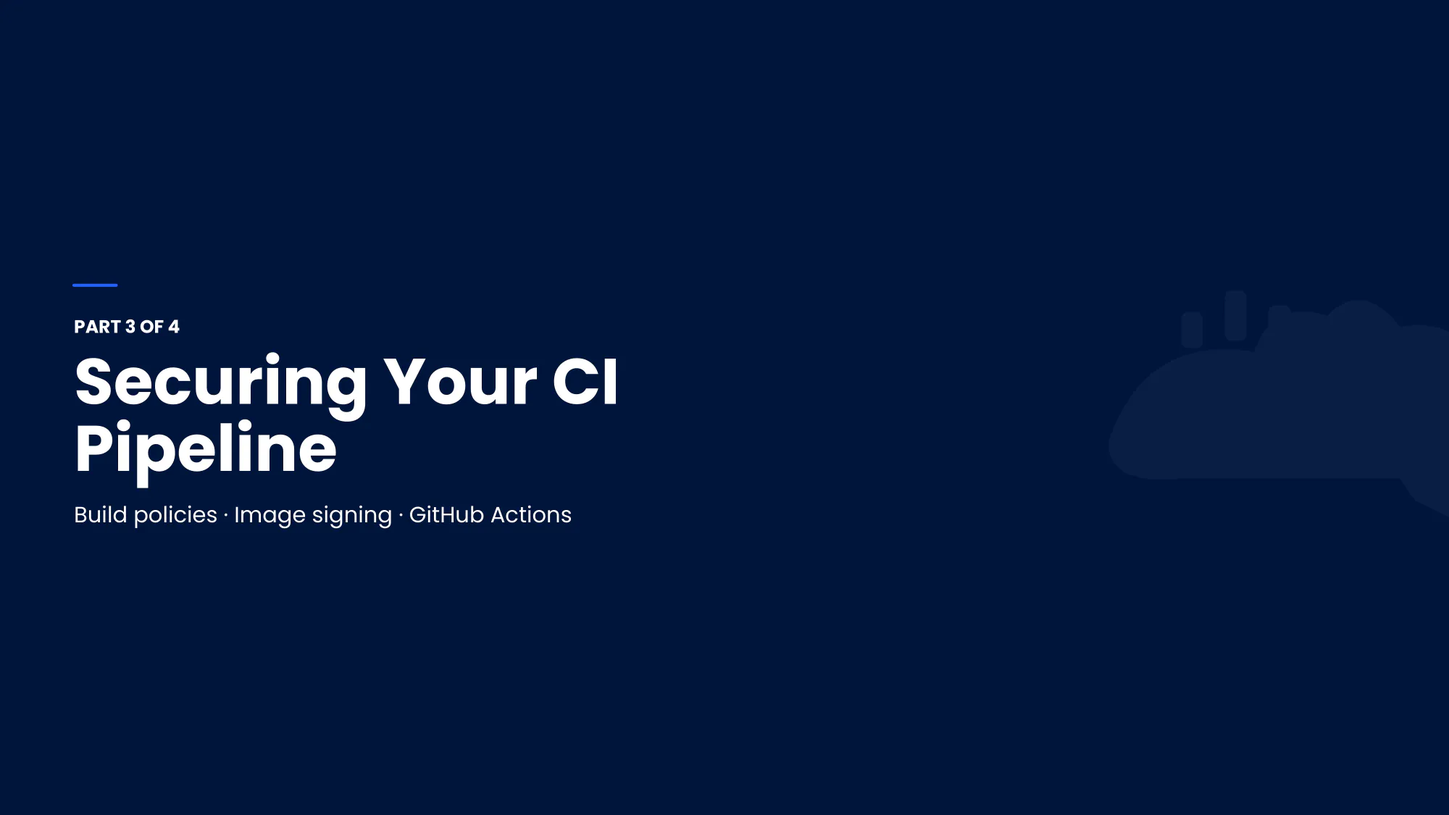
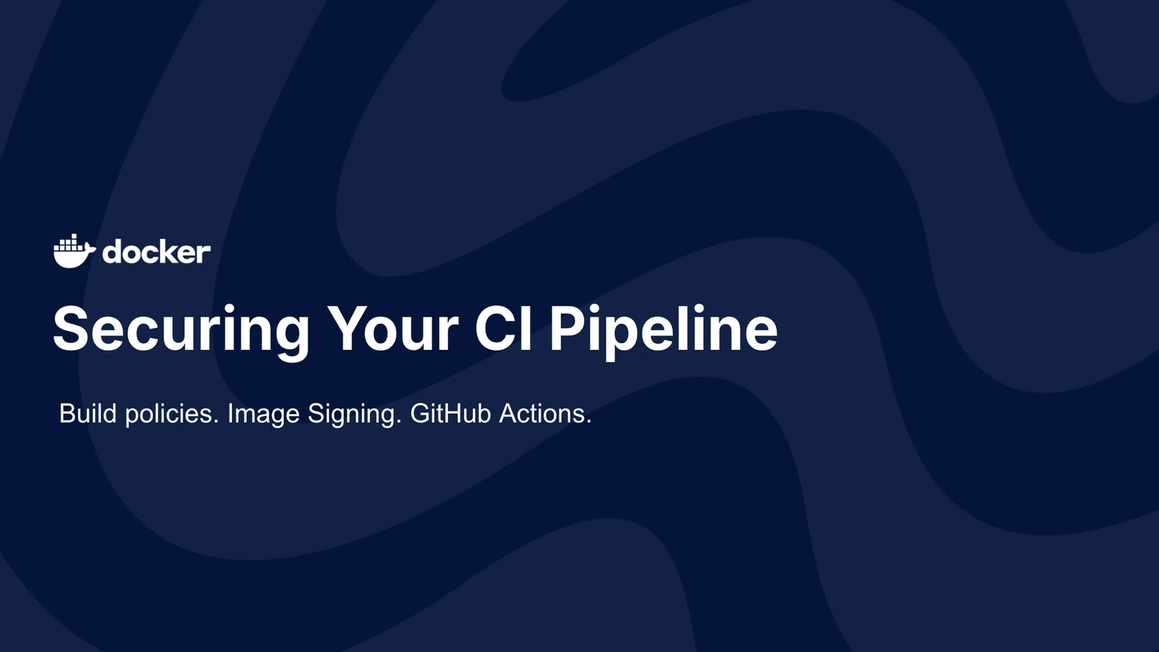
Slides: MCP-governance arc, trim overlapping slides, refresh CI/Lab4 dividers
Add 8 sandbox/MCP-governance slides after the sandbox architecture slide
(Sandbox TUI, credentials, Protecting MCP, gateway, gateway options, Hub
governance, sbx mcp lifecycle, Cedar policy). Remove four now-redundant
slides (old CI live-demo, MCP-hardened-containers, old sbx-isolation, MCP-
on-DHI demo) and rewire the affected hand-off notes. Replace the Part 3 and
Part 4 section intros with cleaner Docker-branded divider slides.

Changed region(s): [[0.0312, 0.4356, 0.6875, 0.5911], [0.0312, 0.6222, 0.5, 0.6533], [0.0312, 0.3422, 0.1875, 0.4044]]

diff --git a/_proposals/SPEAKER-NOTES.md b/_proposals/SPEAKER-NOTES.md
@@ -263,94 +263,114 @@ This is the **complete `secure-build.yaml` workflow, ready to copy**. It trigger
 ## Slide 51 - slide-41
 `slide-41.webp`
 
-Here's why all the earlier hardening pays off at the gate. **With a DHI base** on the left: no critical or high CVEs, SBOM and provenance present, non-root by default, up-to-date base - the **gate passes and the image is pushed**. **With a standard base** on the right: CVEs found, no SBOM, running as root - the **gate fails, and push never runs**. Same pipeline, same policies, opposite outcomes - the only variable is the base image the agent built on. This is the concrete cash-out of Labs 1 and 2: the hardened base isn't just nice-to-have hygiene, it's what lets you cleanly clear a fail-closed gate instead of getting blocked at the boundary. Let's watch that exact contrast happen live.
+Here's why all the earlier hardening pays off at the gate. **With a DHI base** on the left: no critical or high CVEs, SBOM and provenance present, non-root by default, up-to-date base - the **gate passes and the image is pushed**. **With a standard base** on the right: CVEs found, no SBOM, running as root - the **gate fails, and push never runs**. Same pipeline, same policies, opposite outcomes - the only variable is the base image the agent built on. This is the concrete cash-out of Labs 1 and 2: the hardened base isn't just nice-to-have hygiene, it's what lets you cleanly clear a fail-closed gate instead of getting blocked at the boundary. That's Lab 3 done - let's mark it on the journey map.
 
-## Slide 52 - slide-42
-`slide-42.webp`
-
-**Live demo, 3 of 4** - **CI policy enforcement in action**. We're going to watch a build fail, then pass, with a single Dockerfile change. **Round 1** builds `FROM node:22-slim` and runs `docker scout policy catalog-service:baseline`: two critical and 26 high CVEs, no SBOM or provenance, image runs as root - **policy FAILED, 3 of 7 not met, push skipped, image blocked**. **Round 2** changes just the base to `FROM dhi.io/node:24-debian13` and reruns against `catalog-service:dhi`: every one of the seven policies goes green - **policy PASSED, 7 of 7, image pushed to registry**. One line in the Dockerfile is the difference between blocked and promoted. That's the whole story of Lab 3 in two terminal runs - let's mark it done on the journey map.
-
-## Slide 53 - The journey, checkpoint 3 of 4: Lab 3 done, SIGN, GATE and DEPLOY are now gre...
+## Slide 52 - The journey, checkpoint 3 of 4: Lab 3 done, SIGN, GATE and DEPLOY are now gre...
 `slide-journey-3.webp`
 
 **Checkpoint 3 - Lab 3 is done.** Trace the road: the agent develops in a sandbox, builds on a hardened DHI base with zero CVEs, attaches SBOM and provenance at build, and now **SIGNs keylessly, bound to the digest**. The **CI GATE** - no critical CVEs, SBOM present, provenance verified - **fails closed** at the dev-to-prod boundary, and because our image is provable it passes and gets promoted: **DEPLOY** goes green with a signed image, verified and pinned by digest. **Three of four stages provable now** - Labs 1, 2, and 3 are lit. Compare that to the ungoverned baseline the agent shipped on your host: `FROM node:20`, 431 packages, no SBOM, root, nothing you can prove. The one box still grey is **INVOKE** - the running Agent/MCP client at the far right. Same discipline at both ends: the agent that *builds* runs in a box, and the service it *becomes* must run in a box too. That runtime end - MCP servers and tool isolation - is Lab 4, and it's next.
 
-## Slide 54 - Question 4 of 4 - Boundary: what could it reach while it worked? Sandbox runt...
+## Slide 53 - Question 4 of 4 - Boundary: what could it reach while it worked? Sandbox runt...
 `slide-framework-4.webp`
 
 Lab 4 is the last question - **Boundary:** what could the agent reach while it worked? The answer is the **sandbox runtime** - network, filesystem, and credentials, bounded so the agent can act without an open blast radius. This is the fourth layer, and it closes the loop: same discipline at both ends of the road.
 
-## Slide 55 - slide-43
+## Slide 54 - slide-43
 `slide-43.webp`
 
 This is our last segment, **Part 4 of 4: Securing the Agentic Stack**. We've walked the road from development to production, we've made CI fail closed, and now we close the loop on the piece that changes everything about that road - the agent itself. MCP servers, tool isolation, trusted foundations: that's what the next few slides are about. Because once an agent can build and ship for you, the tools it reaches for become part of your supply chain.
 
-## Slide 56 - Agent with a Sandbox: sbx microVM boundary, DHI MCP server, hardened base, ze...
+## Slide 55 - Agent with a Sandbox: sbx microVM boundary, DHI MCP server, hardened base, ze...
 `slide-10.webp`
 
 This is where we're headed - the clean end-state, the counterpart to the ungoverned-agent baseline from earlier. Everything the agent does now happens inside a **sandbox boundary, an `sbx` microVM** with its own daemon, its own network, and the host mounted read-only. Same prompt as before - "containerize app" - but watch the flow: the agent has full permissions inside the box, it queries the **DHI MCP server** which only serves signed tools, and it writes `FROM dhi.io/node` because it checked the trusted source before writing the line. The result at the bottom is the whole point: **0 critical, 0 high, 0 medium, 0 low CVEs**, 211 packages, SBOM attached, signed, non-root. Contrast that with the ungoverned `FROM node:20` baseline we started with - same agent, radically different outcome. Let me show you how that sandbox actually works.
 
-## Slide 57 - Sandboxes (experimental): run agents in isolation rather than on your bare ma...
+## Slide 56 - Sandboxes (experimental): run agents in isolation rather than on your bare ma...
 `slide-sandboxes.webp`
 
 This is the boundary itself - **Docker Sandboxes**, still experimental but exactly the primitive we want. Instead of letting an agent or Claude run loose on your bare machine, it runs in an **isolated sandbox that mirrors your workspace**. You define what access it gets - filesystem, network, internal resources, and tools - and your real files, data, and secrets **stay safe even if the agent goes off the rails**. On the right you can see it: `sbx run claude` starts the agent in a sandbox, mounts just the workspace, and applies a **deny-all network policy with an explicit allowlist**. Let me show you what's actually inside that box.
 
-## Slide 58 - Sandbox architecture: on the host machine, the agent container runs inside a ...
+## Slide 57 - Sandbox architecture: on the host machine, the agent container runs inside a ...
 `slide-sandbox-arch.webp`
 
-Here's the architecture. Everything sits on your **host machine**, but the agent runs inside a **microVM-based sandbox** - a real isolation boundary, not just a container namespace. You feed it three things from outside the box: the **workspace directories** it's allowed to see, the **network policies** that govern what it can reach, and the **secrets** it needs. Outbound traffic doesn't go straight out - it flows through a **network proxy** that enforces those policies before anything reaches **external systems**. The agent gets exactly the access you granted and nothing more. That's the runtime boundary for Lab 4 - now let's look at the MCP servers that run inside it.
+Here's the architecture. Everything sits on your **host machine**, but the agent runs inside a **microVM-based sandbox** - a real isolation boundary, not just a container namespace. You feed it three things from outside the box: the **workspace directories** it's allowed to see, the **network policies** that govern what it can reach, and the **secrets** it needs. Outbound traffic doesn't go straight out - it flows through a **network proxy** that enforces those policies before anything reaches **external systems**. The agent gets exactly the access you granted and nothing more. That's the runtime boundary for Lab 4 - here's what it looks like in day-to-day use.
 
-## Slide 59 - slide-46
-`slide-46.webp`
+## Slide 58 - The Sandbox TUI: Docker Sandboxes live view - sandboxes on the left (claude-d...
+`slide-sandbox-tui.webp`
 
-The reassuring part: **MCP servers belong in hardened containers**, and hardening one is exactly the same discipline as hardening any app. On the left you build on DHI - `FROM dhi.io/python:3.13`, copy in your code, and note the comment: no shell, no curl, no package manager in the final image. The compose service locks it down at runtime with `read_only: true`, `cap_drop: [ALL]`, and `no-new-privileges`. On the right you verify and run through the gateway - `docker mcp gateway run --verify-signatures` checks the signature before anything executes, `docker scout` confirms the attestations, and a `docker inspect` proves the read-only rootfs actually stuck. And the callout matters: **don't hand-harden every server**. For off-the-shelf tools - filesystem, git, GitHub - pull from Docker's pre-hardened MCP Catalog, already signed and attested, zero Dockerfile work. Now let's put the two paths side by side and see the numbers.
+This is the Sandbox TUI - `sbx` gives you a live view of every sandbox on your machine. On the left, each sandbox with its status, workspace, and resource use - `claude-docs` running, `claude-agent-demo` stopped - with controls to stop, exec, or remove. On the right, the **network log** for the selected sandbox: every outbound connection the agent attempted, with a hit count and an allowed-or-blocked status. Notice `api.anthropic.com`, `api.github.com`, and `registry.npmjs.org` allowed, while `http-intake.logs.us5.datadoghq.com` is **blocked**. This is the boundary made observable - you can see exactly what the agent reached for and what the policy stopped.
 
-## Slide 60 - slide-47
+## Slide 59 - Managing credentials: always prefer stored secrets over env vars (keychain en...
+`slide-credentials.webp`
+
+Credentials are the thing you least want an agent to leak, so two rules. **Always prefer stored secrets over environment variables** - the OS keychain encrypts them at rest. And **never set API keys manually inside the sandbox** - anything in there is readable by the agent. The CLI is small: `sbx secret set -g anthropic` stores a key for all sandboxes; scope it to one with `sbx secret set my-sandbox openai`. You can pipe a GitHub token straight in - `gh auth token | sbx secret set -g github` - so the agent can use the `gh` CLI without ever seeing the raw value. `sbx secret ls` and `rm` manage them, and the major providers are supported out of the box.
+
+## Slide 60 - Protecting MCP: tools are how agents act on the world - govern which servers ...
+`slide-protecting-mcp.webp`
+
+That's the sandbox itself - the boundary the agent runs in. Now the other half of Lab 4: **protecting MCP**. Tools are how an agent acts on the world, so the question shifts from "what can it reach" to "which servers exist, and which tools is it actually allowed to call?" The answer is to govern all of that at **one gateway**.
+
+## Slide 61 - The agent talks to one gateway, never to servers directly: the sandboxed agen...
+`slide-mcp-gateway.webp`
+
+Here's the shape of it. The agent inside the sandbox never talks to MCP servers directly - it talks to **one endpoint**, the **mcp-gateway**, through a single `SBX_MCP_URL`. Behind that gateway all your servers - local-wiki, GitHub, Notion, DuckDuckGo - are aggregated. The payoff is the line at the bottom: **every tool call flows through one chokepoint**. Tools are namespaced `mcp__mcp-gateway__<tool>`, and that single point is where policy and audit apply - one place to govern instead of N servers to chase.
+
+## Slide 62 - Point it at a real gateway: local gateway http://localhost:8811 (Compose or D...
+`slide-gateway-options.webp`
+
+The `sbx mcp` subtree stays hidden until you set `SBX_MCP_URL`, and only two values carry the full governed flow. A **local gateway** at `http://localhost:8811` - Compose or the Desktop MCP Toolkit, you run it and control what's registered, best for learning the mechanics. Or a **hosted control plane** at `gateway.docker.com` - MCP Gateway Enterprise, where org policy governs what's invocable with central audit, the real governance story. And the crucial default: it is **fail-closed by design** - no policy loaded means deny-all. Policy is authored in Docker Hub, fetched at `docker login`, and developers can't override it.
+
+## Slide 63 - Author once in Docker Hub, enforce around the sandbox and at the gateway: Doc...
+`slide-hub-governance.webp`
+
+This is the whole enforcement picture. You **author policy once in Docker Hub** - the AI Governance settings UI or the Governance API. It syncs to the host at `docker login`, takes precedence, and fails closed. On the developer laptop the agent runs in the microVM, and the **sbx daemon** enforces the network proxy, network policy, and filesystem policy - writing **every decision to an audit log** as JSONL. Tool calls leave via `SBX_MCP_URL` to the **MCP Gateway** - local 8811 or gateway.docker.com - which runs its own **policy check and audit on every call**. Same policy, enforced in two places: around the sandbox and at the gateway.
+
+## Slide 64 - The server lifecycle - five commands: sbx mcp add to register, sbx mcp ls/ins...
+`slide-mcp-lifecycle.webp`
+
+Hands-on, the `sbx mcp` lifecycle is basically five commands. **add** registers a server - `sbx mcp add local-wiki --command docker --args "run,-i,--rm,mcp/wikipedia-mcp"` - and it takes a list, stdio, remote-OAuth, or a docker.io image. **ls / inspect** shows the record, registration only - it doesn't start anything. **--static-mcp** attaches it to a sandbox at launch - `sbx run claude --static-mcp local-wiki` - or `sbx mcp load` into a live one; note the flag is `--static-mcp`, not `--mcp`. And inside the agent, **/mcp** verifies it's wired up - you'll see `mcp-gateway connected, 24 tools`, one aggregated gateway, not your individual servers.
+
+## Slide 65 - Default-deny allow-list over (server, tool), authored in Cedar: a permit poli...
+`slide-cedar-policy.webp`
+
+And here's what the policy actually looks like - a **default-deny allow-list over (server, tool) pairs, authored in Cedar**, the open-source authorization engine from AWS. Cedar answers "can principal X do action Y on resource Z in context C." This policy permits **exactly one tool - `get_me` on `github-official`** - and by default-deny, every other tool and every other server is **blocked**. It's evaluated **at the gateway on every invoke**, using the **same engine as your network and filesystem policy** - one surface, no bypass. The takeaway: author once, sync everywhere. A developer can `sbx mcp add` any server they like, but if org policy doesn't permit its tools, the calls are denied and audited.
+
+## Slide 66 - slide-47
 `slide-47.webp`
 
 This is the whole talk in one frame - **two paths, same agent, same prompt**, "containerize catalog service." The **traditional agentic SDLC** on the left pulls packages from random internet repos - npm, DockerHub community, apt, pip - writes `FROM node:20` with no security guidance, and lands at **2 critical, 26 high, 25 medium, 122 low CVEs**, 806 packages, no SBOM, no attestation, running as root. The **agentic SDLC with sbx plus DHI MCP** on the right runs the agent inside an isolated microVM, queries the DHI MCP server first with `dhi_list_repositories` and `dhi_get_image_cves`, and writes `FROM dhi.io/node:24-debian13` - the DHI-recommended base, 0 CVEs, signed, SLSA L3. Result: **all zeros**, 211 packages, SBOM attached, signed, non-root. Same intelligence, same instruction - the only variable is whether the agent is sandboxed and pointed at a trusted source. Let me show you that MCP server up close.
 
-## Slide 61 - slide-48
+## Slide 67 - slide-48
 `slide-48.webp`
 
-Here's the beautiful turn in the story: **the same agent that introduced the vulnerabilities can now query what's secure before it picks a base image**. Connecting it is one config - drop a `dhi` entry pointing at `https://dhi.io/mcp` into Claude Desktop, or a single `claude mcp add dhi --url https://dhi.io/mcp` in Claude Code. That gives the agent **10 tools**: `dhi_list_repositories` to search by name, FIPS, or STIG; `dhi_get_image_cves` with CVSS, EPSS, and fix versions; `dhi_get_image_packages` for the full SBOM; attestations, repository details, even `dhi_create_mirror`. So the agent can answer real questions - "find the Node.js hardened image with the fewest CVEs," "does this image have FIPS and STIG attestations." The line to land: the agent that triggered the vulnerabilities now has the tools to **never make that mistake again**, by querying DHI before every FROM line. Next, the boundary that keeps the agent itself contained - Docker Sandboxes.
+Here's the beautiful turn in the story: **the same agent that introduced the vulnerabilities can now query what's secure before it picks a base image**. Connecting it is one config - drop a `dhi` entry pointing at `https://dhi.io/mcp` into Claude Desktop, or a single `claude mcp add dhi --url https://dhi.io/mcp` in Claude Code. That gives the agent **10 tools**: `dhi_list_repositories` to search by name, FIPS, or STIG; `dhi_get_image_cves` with CVSS, EPSS, and fix versions; `dhi_get_image_packages` for the full SBOM; attestations, repository details, even `dhi_create_mirror`. So the agent can answer real questions - "find the Node.js hardened image with the fewest CVEs," "does this image have FIPS and STIG attestations." The line to land: the agent that triggered the vulnerabilities now has the tools to **never make that mistake again**, by querying DHI before every FROM line. Now let's wire that DHI MCP server into the sandbox.
 
-## Slide 62 - slide-49
-`slide-49.webp`
-
-This is the agent's own blast-radius boundary - **Docker Sandboxes**. Remember the lab started with `claude -p` building the catalog service; run that same agent in a sandbox and it simply cannot touch your host. Install is two lines - `brew install docker/tap/sbx` and `sbx login` - then `sbx run --name my-sandbox claude` drops the agent into an isolated microVM. Add `--clone` and the host goes read-only: the agent works on its own branch and you `git fetch` and review its commits before anything merges. On the right is what's actually isolated: its **own Docker daemon** so it builds containers without host daemon access, its **own filesystem and network** behind a microVM boundary it can't escape, **network policies** - Open, Balanced, or Locked Down, blocking outbound by default - and clone mode keeping the host read-only. This is the "full permissions inside, zero reach outside" box from our end-state diagram. Next, wiring the DHI MCP server into that sandbox.
-
-## Slide 63 - slide-50
+## Slide 68 - slide-50
 `slide-50.webp`
 
 Now we connect the two halves - **wire the DHI MCP server into the sandbox**. On the left, one-time setup: install `sbx`, export the gateway URL, start the sandbox daemon, then register the server by URL with `sbx mcp add remotedhi --url https://dhi.io/mcp`. Inspect it and you see it's a remote server over streamable-http - nothing hand-built. On the right you query it from the agent: `sbx run codex --static-mcp remotedhi`, and the agent's `/mcp` view now lists the tools through the gateway - `dhi_get_image_cves`, `dhi_get_image_details`, and eight more. The callout is the important nuance: **10 tools are now available**, but most are read-only queries. The mutating ones - `dhi_create_mirror`, `dhi_remove_mirror` - are exactly what you want to scope with policy. And that's the next slide.
 
-## Slide 64 - slide-51
+## Slide 69 - slide-51
 `slide-51.webp`
 
 Last technical slide, and it's the one that separates a demo from production - **govern the tools first, with a Cedar access policy**. On the left is the lab default: a quick unblock that permits every principal, every action - register, invokeTool, invokePrimordial - against every resource. It gets the lab moving, but as the note says, that's governance turned off; don't ship it as your exemplar, and never hand the gateway's built-in primordials a wide-open pass. On the right is the production-scoped version: anyone may register, but `invokeTool` is permitted only when the server is `remotedhi` **and** the tool is one of the named read-only queries - `dhi_get_image_cves`, `dhi_get_image_packages`, `dhi_list_repositories`, and so on. Scoped by design: `dhi_create_mirror`, `dhi_remove_mirror`, and wide-open primordials are deliberately left out - query the catalog, don't mutate it. One gotcha worth flagging - the real action name is `invokeTool`, not `invoke`. That completes the road: development to production, CI failing closed, and the agent sandboxed and governed on both ends. Let's wrap up.
 
-## Slide 65 - slide-53
-`slide-53.webp`
-
-This is **live demo 4 of 4**, and it ties the whole road together in one flow: **MCP server on DHI, end to end** - from a Dockerfile all the way to a verified tool invocation. Watch the four moves along the bottom, because they mirror everything we have built. We **BUILD** with `docker buildx build --sbom=true`, so the SBOM is attached at build time, not bolted on later. We **SIGN** with `cosign sign`, binding that image to its digest. We **RUN** it with `docker compose up` under `read_only` and `cap_drop: ALL`, so the service that this agent becomes runs with least privilege. And we **VERIFY** with `docker scout attest list`, proving the attestations are really there. Same source, same agent, provable at every step - that is the payoff of Lab 4.
-
-## Slide 66 - The journey, checkpoint 4 of 4: Lab 4 done, DEVELOP and INVOKE green, both sa...
+## Slide 70 - The journey, checkpoint 4 of 4: Lab 4 done, DEVELOP and INVOKE green, both sa...
 `slide-journey-4.webp`
 
 This is the final checkpoint, **4 of 4** - the whole road is green. On the left, **DEVELOPMENT** sits inside its own dashed box: the agent develops in an sbx microVM with the host read-only, on a hardened base with 0 CVEs and SLSA L3, buildx attaches SBOM and provenance, and signing binds everything to a verifiable digest. In the middle the **CI GATE** does its job - no critical CVEs, SBOM present, provenance verified - and it **FAILS CLOSED** at the dev-to-prod boundary. On the right, **PRODUCTION** is boxed too: the signed image is deployed pinned by digest, and the agent invokes MCP as a signed, read-only client under `cap_drop ALL` and non-root. The one line to land is at the bottom - **same discipline at both ends**: the agent that BUILDS runs in a box, and the service it BECOMES runs in a box. Least privilege on the left and the right of the road, and 4 of 4 stages provable.
 
-## Slide 67 - slide-54
+## Slide 71 - slide-54
 `slide-54.webp`
 
 If you take one slide home, take this one: **your security framework in five steps**. First, **know what is in your images** - SBOM plus VEX, so you can see every package and cut the noise on the ones that do not apply. Second, **verify where they came from** - SLSA provenance and image signing, so trust is bound to a digest, not a hope. Third, **start from a trusted base** - Docker Hardened Images, so you begin near zero CVEs instead of digging out of a pile. Fourth, **enforce at the pipeline** - Docker Scout build policies that fail closed at the dev-to-prod boundary. And fifth, **isolate your agents** - run MCP servers in hardened containers so the agent's tools stay in a box. Each of those was one of our labs; together they are a repeatable playbook you can apply to any agentic stack.
 
-## Slide 68 - slide-55
+## Slide 72 - slide-55
 `slide-55.webp`
 
 Here are the **resources and next steps** so you can keep going after today. Everything from this workshop lives in the **lab repo** at `github.com/ajeetraina/simspace-agentic-security` - clone it and run the four labs again at your own pace. Under **Docker docs** you have Hardened Images in Trusted Content, Docker Scout, and the MCP Catalog on Docker Hub. And on the **standards** side, these are the specs behind what we did - SLSA at slsa.dev, VEX at openvex.dev, Cosign and Sigstore for signing, and the MCP specification at modelcontextprotocol.io. Snap a photo of this slide, and then **come find us at the Docker booth** - we would love to hear what you build.
 
-## Slide 69 - slide-56
+## Slide 73 - slide-56
 `slide-56.webp`
 
 That is the journey - **provable trust, end to end**. Agents now build and ship our containers, and with hardened images, attestation, and sandboxing on both ends of the road, we can prove what they produced instead of just trusting it. Go run the lab, apply the five steps to your own stack, and come say hi at the booth. **Thank you.**

diff --git a/lab/securing-the-agentic-stack-slides/deck.md b/lab/securing-the-agentic-stack-slides/deck.md
@@ -410,15 +410,7 @@ Note: This is the **complete `secure-build.yaml` workflow, ready to copy**. It t
 
 <img src="assets/slide-41.webp" alt="Slide 41" width="1600" height="900" loading="lazy" decoding="async" style="position:absolute;inset:0;width:100%;height:100%;max-width:none;max-height:none;object-fit:fill" />
 
-Note: Here's why all the earlier hardening pays off at the gate. **With a DHI base** on the left: no critical or high CVEs, SBOM and provenance present, non-root by default, up-to-date base - the **gate passes and the image is pushed**. **With a standard base** on the right: CVEs found, no SBOM, running as root - the **gate fails, and push never runs**. Same pipeline, same policies, opposite outcomes - the only variable is the base image the agent built on. This is the concrete cash-out of Labs 1 and 2: the hardened base isn't just nice-to-have hygiene, it's what lets you cleanly clear a fail-closed gate instead of getting blocked at the boundary. Let's watch that exact contrast happen live.
-
----
-
-<!-- chrome: false -->
-
-<img src="assets/slide-42.webp" alt="Slide 42" width="1600" height="900" loading="lazy" decoding="async" style="position:absolute;inset:0;width:100%;height:100%;max-width:none;max-height:none;object-fit:fill" />
-
-Note: **Live demo, 3 of 4** - **CI policy enforcement in action**. We're going to watch a build fail, then pass, with a single Dockerfile change. **Round 1** builds `FROM node:22-slim` and runs `docker scout policy catalog-service:baseline`: two critical and 26 high CVEs, no SBOM or provenance, image runs as root - **policy FAILED, 3 of 7 not met, push skipped, image blocked**. **Round 2** changes just the base to `FROM dhi.io/node:24-debian13` and reruns against `catalog-service:dhi`: every one of the seven policies goes green - **policy PASSED, 7 of 7, image pushed to registry**. One line in the Dockerfile is the difference between blocked and promoted. That's the whole story of Lab 3 in two terminal runs - let's mark it done on the journey map.
+Note: Here's why all the earlier hardening pays off at the gate. **With a DHI base** on the left: no critical or high CVEs, SBOM and provenance present, non-root by default, up-to-date base - the **gate passes and the image is pushed**. **With a standard base** on the right: CVEs found, no SBOM, running as root - the **gate fails, and push never runs**. Same pipeline, same policies, opposite outcomes - the only variable is the base image the agent built on. This is the concrete cash-out of Labs 1 and 2: the hardened base isn't just nice-to-have hygiene, it's what lets you cleanly clear a fail-closed gate instead of getting blocked at the boundary. That's Lab 3 done - let's mark it on the journey map.
 
 ---
 
@@ -466,15 +458,71 @@ Note: This is the boundary itself - **Docker Sandboxes**, still experimental but
 
 <img src="assets/slide-sandbox-arch.webp" alt="Sandbox architecture: on the host machine, the agent container runs inside a microVM-based sandbox fed by workspace directories, network policies and secrets; outbound traffic flows through a network proxy to external systems" width="1600" height="900" loading="lazy" decoding="async" style="position:absolute;inset:0;width:100%;height:100%;max-width:none;max-height:none;object-fit:fill" />
 
-Note: Here's the architecture. Everything sits on your **host machine**, but the agent runs inside a **microVM-based sandbox** - a real isolation boundary, not just a container namespace. You feed it three things from outside the box: the **workspace directories** it's allowed to see, the **network policies** that govern what it can reach, and the **secrets** it needs. Outbound traffic doesn't go straight out - it flows through a **network proxy** that enforces those policies before anything reaches **external systems**. The agent gets exactly the access you granted and nothing more. That's the runtime boundary for Lab 4 - now let's look at the MCP servers that run inside it.
+Note: Here's the architecture. Everything sits on your **host machine**, but the agent runs inside a **microVM-based sandbox** - a real isolation boundary, not just a container namespace. You feed it three things from outside the box: the **workspace directories** it's allowed to see, the **network policies** that govern what it can reach, and the **secrets** it needs. Outbound traffic doesn't go straight out - it flows through a **network proxy** that enforces those policies before anything reaches **external systems**. The agent gets exactly the access you granted and nothing more. That's the runtime boundary for Lab 4 - here's what it looks like in day-to-day use.
 
 ---
 
 <!-- chrome: false -->
 
-<img src="assets/slide-46.webp" alt="Slide 46" width="1600" height="900" loading="lazy" decoding="async" style="position:absolute;inset:0;width:100%;height:100%;max-width:none;max-height:none;object-fit:fill" />
+<img src="assets/slide-sandbox-tui.webp" alt="The Sandbox TUI: Docker Sandboxes live view - sandboxes on the left (claude-docs running, claude-agent-demo stopped) and the per-sandbox network log on the right with allowed and blocked hosts" width="1600" height="900" loading="lazy" decoding="async" style="position:absolute;inset:0;width:100%;height:100%;max-width:none;max-height:none;object-fit:fill" />
 
-Note: The reassuring part: **MCP servers belong in hardened containers**, and hardening one is exactly the same discipline as hardening any app. On the left you build on DHI - `FROM dhi.io/python:3.13`, copy in your code, and note the comment: no shell, no curl, no package manager in the final image. The compose service locks it down at runtime with `read_only: true`, `cap_drop: [ALL]`, and `no-new-privileges`. On the right you verify and run through the gateway - `docker mcp gateway run --verify-signatures` checks the signature before anything executes, `docker scout` confirms the attestations, and a `docker inspect` proves the read-only rootfs actually stuck. And the callout matters: **don't hand-harden every server**. For off-the-shelf tools - filesystem, git, GitHub - pull from Docker's pre-hardened MCP Catalog, already signed and attested, zero Dockerfile work. Now let's put the two paths side by side and see the numbers.
+Note: This is the Sandbox TUI - `sbx` gives you a live view of every sandbox on your machine. On the left, each sandbox with its status, workspace, and resource use - `claude-docs` running, `claude-agent-demo` stopped - with controls to stop, exec, or remove. On the right, the **network log** for the selected sandbox: every outbound connection the agent attempted, with a hit count and an allowed-or-blocked status. Notice `api.anthropic.com`, `api.github.com`, and `registry.npmjs.org` allowed, while `http-intake.logs.us5.datadoghq.com` is **blocked**. This is the boundary made observable - you can see exactly what the agent reached for and what the policy stopped.
+
+---
+
+<!-- chrome: false -->
+
+<img src="assets/slide-credentials.webp" alt="Managing credentials: always prefer stored secrets over env vars (keychain encrypts at rest), never set API keys inside the sandbox; sbx secret set/ls/rm; supported services anthropic, openai, github, google and more" width="1600" height="900" loading="lazy" decoding="async" style="position:absolute;inset:0;width:100%;height:100%;max-width:none;max-height:none;object-fit:fill" />
+
+Note: Credentials are the thing you least want an agent to leak, so two rules. **Always prefer stored secrets over environment variables** - the OS keychain encrypts them at rest. And **never set API keys manually inside the sandbox** - anything in there is readable by the agent. The CLI is small: `sbx secret set -g anthropic` stores a key for all sandboxes; scope it to one with `sbx secret set my-sandbox openai`. You can pipe a GitHub token straight in - `gh auth token | sbx secret set -g github` - so the agent can use the `gh` CLI without ever seeing the raw value. `sbx secret ls` and `rm` manage them, and the major providers are supported out of the box.
+
+---
+
+<!-- chrome: false -->
+
+<img src="assets/slide-protecting-mcp.webp" alt="Protecting MCP: tools are how agents act on the world - govern which servers exist and which tools an agent may actually call, at one gateway" width="1600" height="900" loading="lazy" decoding="async" style="position:absolute;inset:0;width:100%;height:100%;max-width:none;max-height:none;object-fit:fill" />
+
+Note: That's the sandbox itself - the boundary the agent runs in. Now the other half of Lab 4: **protecting MCP**. Tools are how an agent acts on the world, so the question shifts from "what can it reach" to "which servers exist, and which tools is it actually allowed to call?" The answer is to govern all of that at **one gateway**.
+
+---
+
+<!-- chrome: false -->
+
+<img src="assets/slide-mcp-gateway.webp" alt="The agent talks to one gateway, never to servers directly: the sandboxed agent reaches an mcp-gateway via SBX_MCP_URL, and local-wiki, GitHub/Notion and DuckDuckGo are aggregated behind it; every tool call flows through one chokepoint" width="1600" height="900" loading="lazy" decoding="async" style="position:absolute;inset:0;width:100%;height:100%;max-width:none;max-height:none;object-fit:fill" />
+
+Note: Here's the shape of it. The agent inside the sandbox never talks to MCP servers directly - it talks to **one endpoint**, the **mcp-gateway**, through a single `SBX_MCP_URL`. Behind that gateway all your servers - local-wiki, GitHub, Notion, DuckDuckGo - are aggregated. The payoff is the line at the bottom: **every tool call flows through one chokepoint**. Tools are namespaced `mcp__mcp-gateway__<tool>`, and that single point is where policy and audit apply - one place to govern instead of N servers to chase.
+
+---
+
+<!-- chrome: false -->
+
+<img src="assets/slide-gateway-options.webp" alt="Point it at a real gateway: local gateway http://localhost:8811 (Compose or Desktop MCP Toolkit) or hosted control plane https://gateway.docker.com (MCP Gateway Enterprise); fail-closed by design - no policy means deny-all" width="1600" height="900" loading="lazy" decoding="async" style="position:absolute;inset:0;width:100%;height:100%;max-width:none;max-height:none;object-fit:fill" />
+
+Note: The `sbx mcp` subtree stays hidden until you set `SBX_MCP_URL`, and only two values carry the full governed flow. A **local gateway** at `http://localhost:8811` - Compose or the Desktop MCP Toolkit, you run it and control what's registered, best for learning the mechanics. Or a **hosted control plane** at `gateway.docker.com` - MCP Gateway Enterprise, where org policy governs what's invocable with central audit, the real governance story. And the crucial default: it is **fail-closed by design** - no policy loaded means deny-all. Policy is authored in Docker Hub, fetched at `docker login`, and developers can't override it.
+
+---
+
+<!-- chrome: false -->
+
+<img src="assets/slide-hub-governance.webp" alt="Author once in Docker Hub, enforce around the sandbox and at the gateway: Docker Hub AI Governance syncs at docker login to the sbx daemon (network proxy + policy, filesystem policy, audit log) and the MCP Gateway checks policy on every call" width="1600" height="900" loading="lazy" decoding="async" style="position:absolute;inset:0;width:100%;height:100%;max-width:none;max-height:none;object-fit:fill" />
+
+Note: This is the whole enforcement picture. You **author policy once in Docker Hub** - the AI Governance settings UI or the Governance API. It syncs to the host at `docker login`, takes precedence, and fails closed. On the developer laptop the agent runs in the microVM, and the **sbx daemon** enforces the network proxy, network policy, and filesystem policy - writing **every decision to an audit log** as JSONL. Tool calls leave via `SBX_MCP_URL` to the **MCP Gateway** - local 8811 or gateway.docker.com - which runs its own **policy check and audit on every call**. Same policy, enforced in two places: around the sandbox and at the gateway.
+
+---
+
+<!-- chrome: false -->
+
+<img src="assets/slide-mcp-lifecycle.webp" alt="The server lifecycle - five commands: sbx mcp add to register, sbx mcp ls/inspect to see the record, --static-mcp to attach to a sandbox, and /mcp inside the agent to verify" width="1600" height="900" loading="lazy" decoding="async" style="position:absolute;inset:0;width:100%;height:100%;max-width:none;max-height:none;object-fit:fill" />
+
+Note: Hands-on, the `sbx mcp` lifecycle is basically five commands. **add** registers a server - `sbx mcp add local-wiki --command docker --args "run,-i,--rm,mcp/wikipedia-mcp"` - and it takes a list, stdio, remote-OAuth, or a docker.io image. **ls / inspect** shows the record, registration only - it doesn't start anything. **--static-mcp** attaches it to a sandbox at launch - `sbx run claude --static-mcp local-wiki` - or `sbx mcp load` into a live one; note the flag is `--static-mcp`, not `--mcp`. And inside the agent, **/mcp** verifies it's wired up - you'll see `mcp-gateway connected, 24 tools`, one aggregated gateway, not your individual servers.
+
+---
+
+<!-- chrome: false -->
+
+<img src="assets/slide-cedar-policy.webp" alt="Default-deny allow-list over (server, tool), authored in Cedar: a permit policy allowing exactly get_me on github-official; everything else blocked, evaluated at the gateway on every invoke, same engine as network and filesystem policy" width="1600" height="900" loading="lazy" decoding="async" style="position:absolute;inset:0;width:100%;height:100%;max-width:none;max-height:none;object-fit:fill" />
+
+Note: And here's what the policy actually looks like - a **default-deny allow-list over (server, tool) pairs, authored in Cedar**, the open-source authorization engine from AWS. Cedar answers "can principal X do action Y on resource Z in context C." This policy permits **exactly one tool - `get_me` on `github-official`** - and by default-deny, every other tool and every other server is **blocked**. It's evaluated **at the gateway on every invoke**, using the **same engine as your network and filesystem policy** - one surface, no bypass. The takeaway: author once, sync everywhere. A developer can `sbx mcp add` any server they like, but if org policy doesn't permit its tools, the calls are denied and audited.
 
 ---
 
@@ -490,15 +538,7 @@ Note: This is the whole talk in one frame - **two paths, same agent, same prompt
 
 <img src="assets/slide-48.webp" alt="Slide 48" width="1600" height="900" loading="lazy" decoding="async" style="position:absolute;inset:0;width:100%;height:100%;max-width:none;max-height:none;object-fit:fill" />
 
-Note: Here's the beautiful turn in the story: **the same agent that introduced the vulnerabilities can now query what's secure before it picks a base image**. Connecting it is one config - drop a `dhi` entry pointing at `https://dhi.io/mcp` into Claude Desktop, or a single `claude mcp add dhi --url https://dhi.io/mcp` in Claude Code. That gives the agent **10 tools**: `dhi_list_repositories` to search by name, FIPS, or STIG; `dhi_get_image_cves` with CVSS, EPSS, and fix versions; `dhi_get_image_packages` for the full SBOM; attestations, repository details, even `dhi_create_mirror`. So the agent can answer real questions - "find the Node.js hardened image with the fewest CVEs," "does this image have FIPS and STIG attestations." The line to land: the agent that triggered the vulnerabilities now has the tools to **never make that mistake again**, by querying DHI before every FROM line. Next, the boundary that keeps the agent itself contained - Docker Sandboxes.
-
----
-
-<!-- chrome: false -->
-
-<img src="assets/slide-49.webp" alt="Slide 49" width="1600" height="900" loading="lazy" decoding="async" style="position:absolute;inset:0;width:100%;height:100%;max-width:none;max-height:none;object-fit:fill" />
-
-Note: This is the agent's own blast-radius boundary - **Docker Sandboxes**. Remember the lab started with `claude -p` building the catalog service; run that same agent in a sandbox and it simply cannot touch your host. Install is two lines - `brew install docker/tap/sbx` and `sbx login` - then `sbx run --name my-sandbox claude` drops the agent into an isolated microVM. Add `--clone` and the host goes read-only: the agent works on its own branch and you `git fetch` and review its commits before anything merges. On the right is what's actually isolated: its **own Docker daemon** so it builds containers without host daemon access, its **own filesystem and network** behind a microVM boundary it can't escape, **network policies** - Open, Balanced, or Locked Down, blocking outbound by default - and clone mode keeping the host read-only. This is the "full permissions inside, zero reach outside" box from our end-state diagram. Next, wiring the DHI MCP server into that sandbox.
+Note: Here's the beautiful turn in the story: **the same agent that introduced the vulnerabilities can now query what's secure before it picks a base image**. Connecting it is one config - drop a `dhi` entry pointing at `https://dhi.io/mcp` into Claude Desktop, or a single `claude mcp add dhi --url https://dhi.io/mcp` in Claude Code. That gives the agent **10 tools**: `dhi_list_repositories` to search by name, FIPS, or STIG; `dhi_get_image_cves` with CVSS, EPSS, and fix versions; `dhi_get_image_packages` for the full SBOM; attestations, repository details, even `dhi_create_mirror`. So the agent can answer real questions - "find the Node.js hardened image with the fewest CVEs," "does this image have FIPS and STIG attestations." The line to land: the agent that triggered the vulnerabilities now has the tools to **never make that mistake again**, by querying DHI before every FROM line. Now let's wire that DHI MCP server into the sandbox.
 
 ---
 
@@ -515,14 +555,6 @@ Note: Now we connect the two halves - **wire the DHI MCP server into the sandbox
 <img src="assets/slide-51.webp" alt="Slide 51" width="1600" height="900" loading="lazy" decoding="async" style="position:absolute;inset:0;width:100%;height:100%;max-width:none;max-height:none;object-fit:fill" />
 
 Note: Last technical slide, and it's the one that separates a demo from production - **govern the tools first, with a Cedar access policy**. On the left is the lab default: a quick unblock that permits every principal, every action - register, invokeTool, invokePrimordial - against every resource. It gets the lab moving, but as the note says, that's governance turned off; don't ship it as your exemplar, and never hand the gateway's built-in primordials a wide-open pass. On the right is the production-scoped version: anyone may register, but `invokeTool` is permitted only when the server is `remotedhi` **and** the tool is one of the named read-only queries - `dhi_get_image_cves`, `dhi_get_image_packages`, `dhi_list_repositories`, and so on. Scoped by design: `dhi_create_mirror`, `dhi_remove_mirror`, and wide-open primordials are deliberately left out - query the catalog, don't mutate it. One gotcha worth flagging - the real action name is `invokeTool`, not `invoke`. That completes the road: development to production, CI failing closed, and the agent sandboxed and governed on both ends. Let's wrap up.
-
----
-
-<!-- chrome: false -->
-
-<img src="assets/slide-53.webp" alt="Slide 53" width="1600" height="900" loading="lazy" decoding="async" style="position:absolute;inset:0;width:100%;height:100%;max-width:none;max-height:none;object-fit:fill" />
-
-Note: This is **live demo 4 of 4**, and it ties the whole road together in one flow: **MCP server on DHI, end to end** - from a Dockerfile all the way to a verified tool invocation. Watch the four moves along the bottom, because they mirror everything we have built. We **BUILD** with `docker buildx build --sbom=true`, so the SBOM is attached at build time, not bolted on later. We **SIGN** with `cosign sign`, binding that image to its digest. We **RUN** it with `docker compose up` under `read_only` and `cap_drop: ALL`, so the service that this agent becomes runs with least privilege. And we **VERIFY** with `docker scout attest list`, proving the attestations are really there. Same source, same agent, provable at every step - that is the payoff of Lab 4.
 
 ---
 
